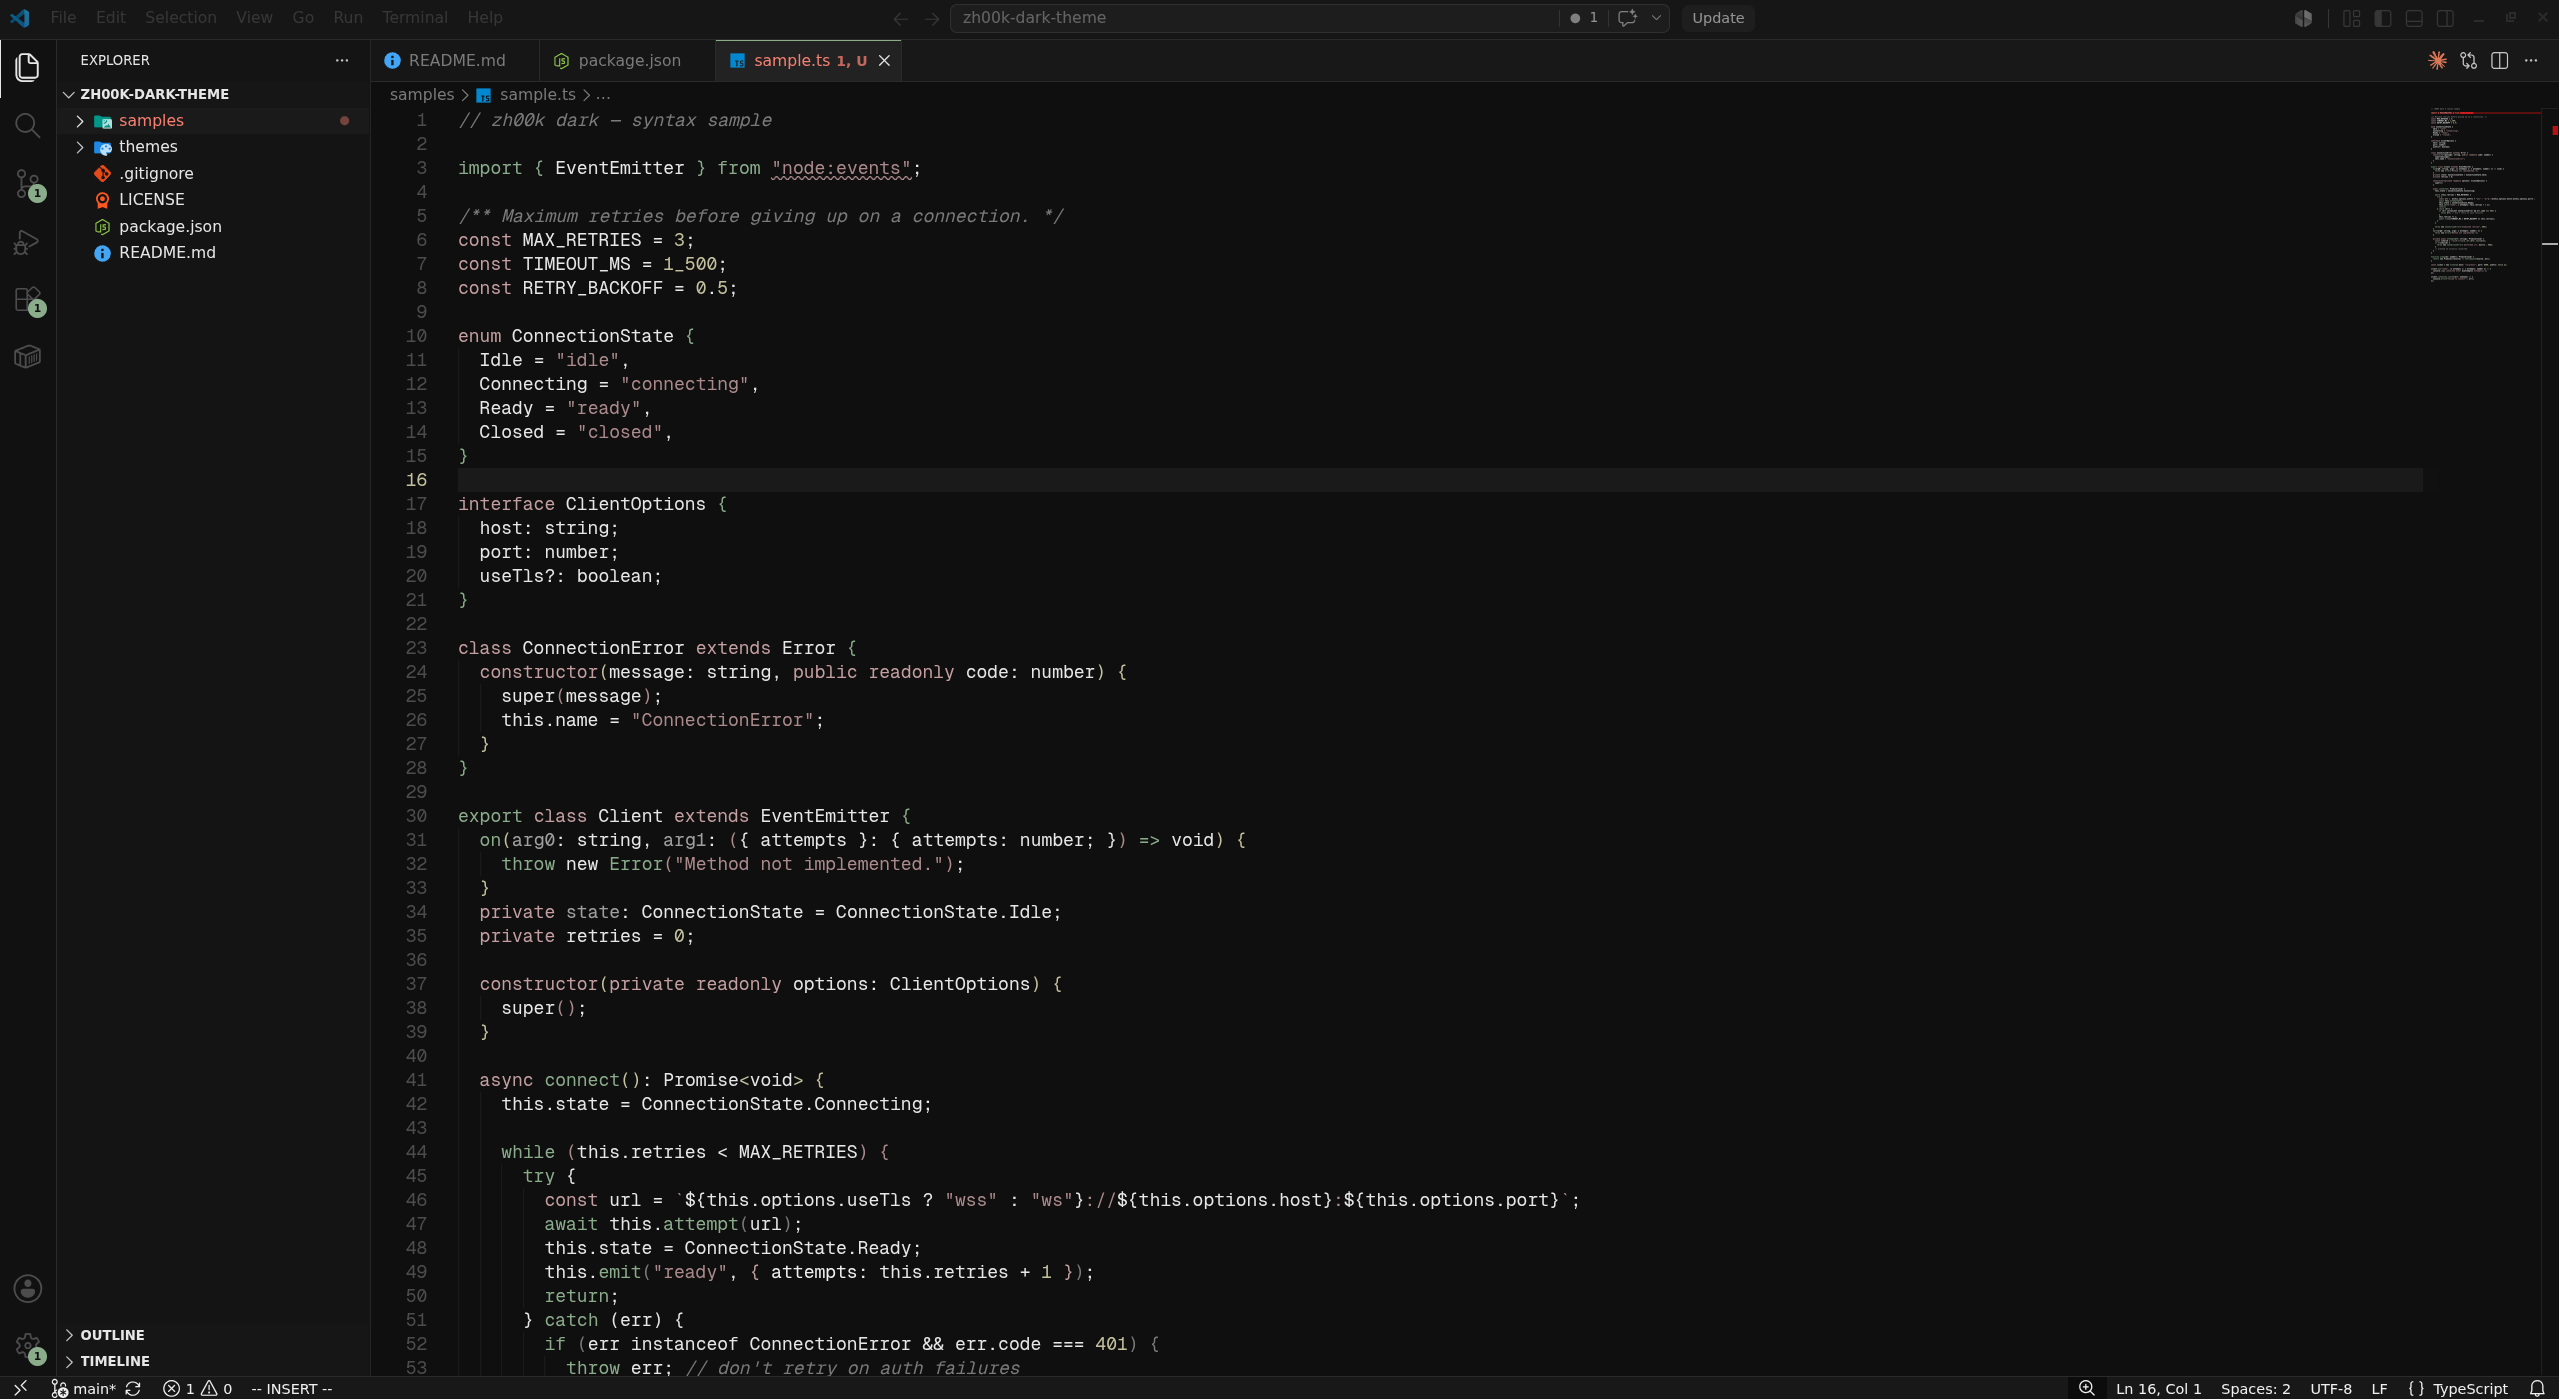
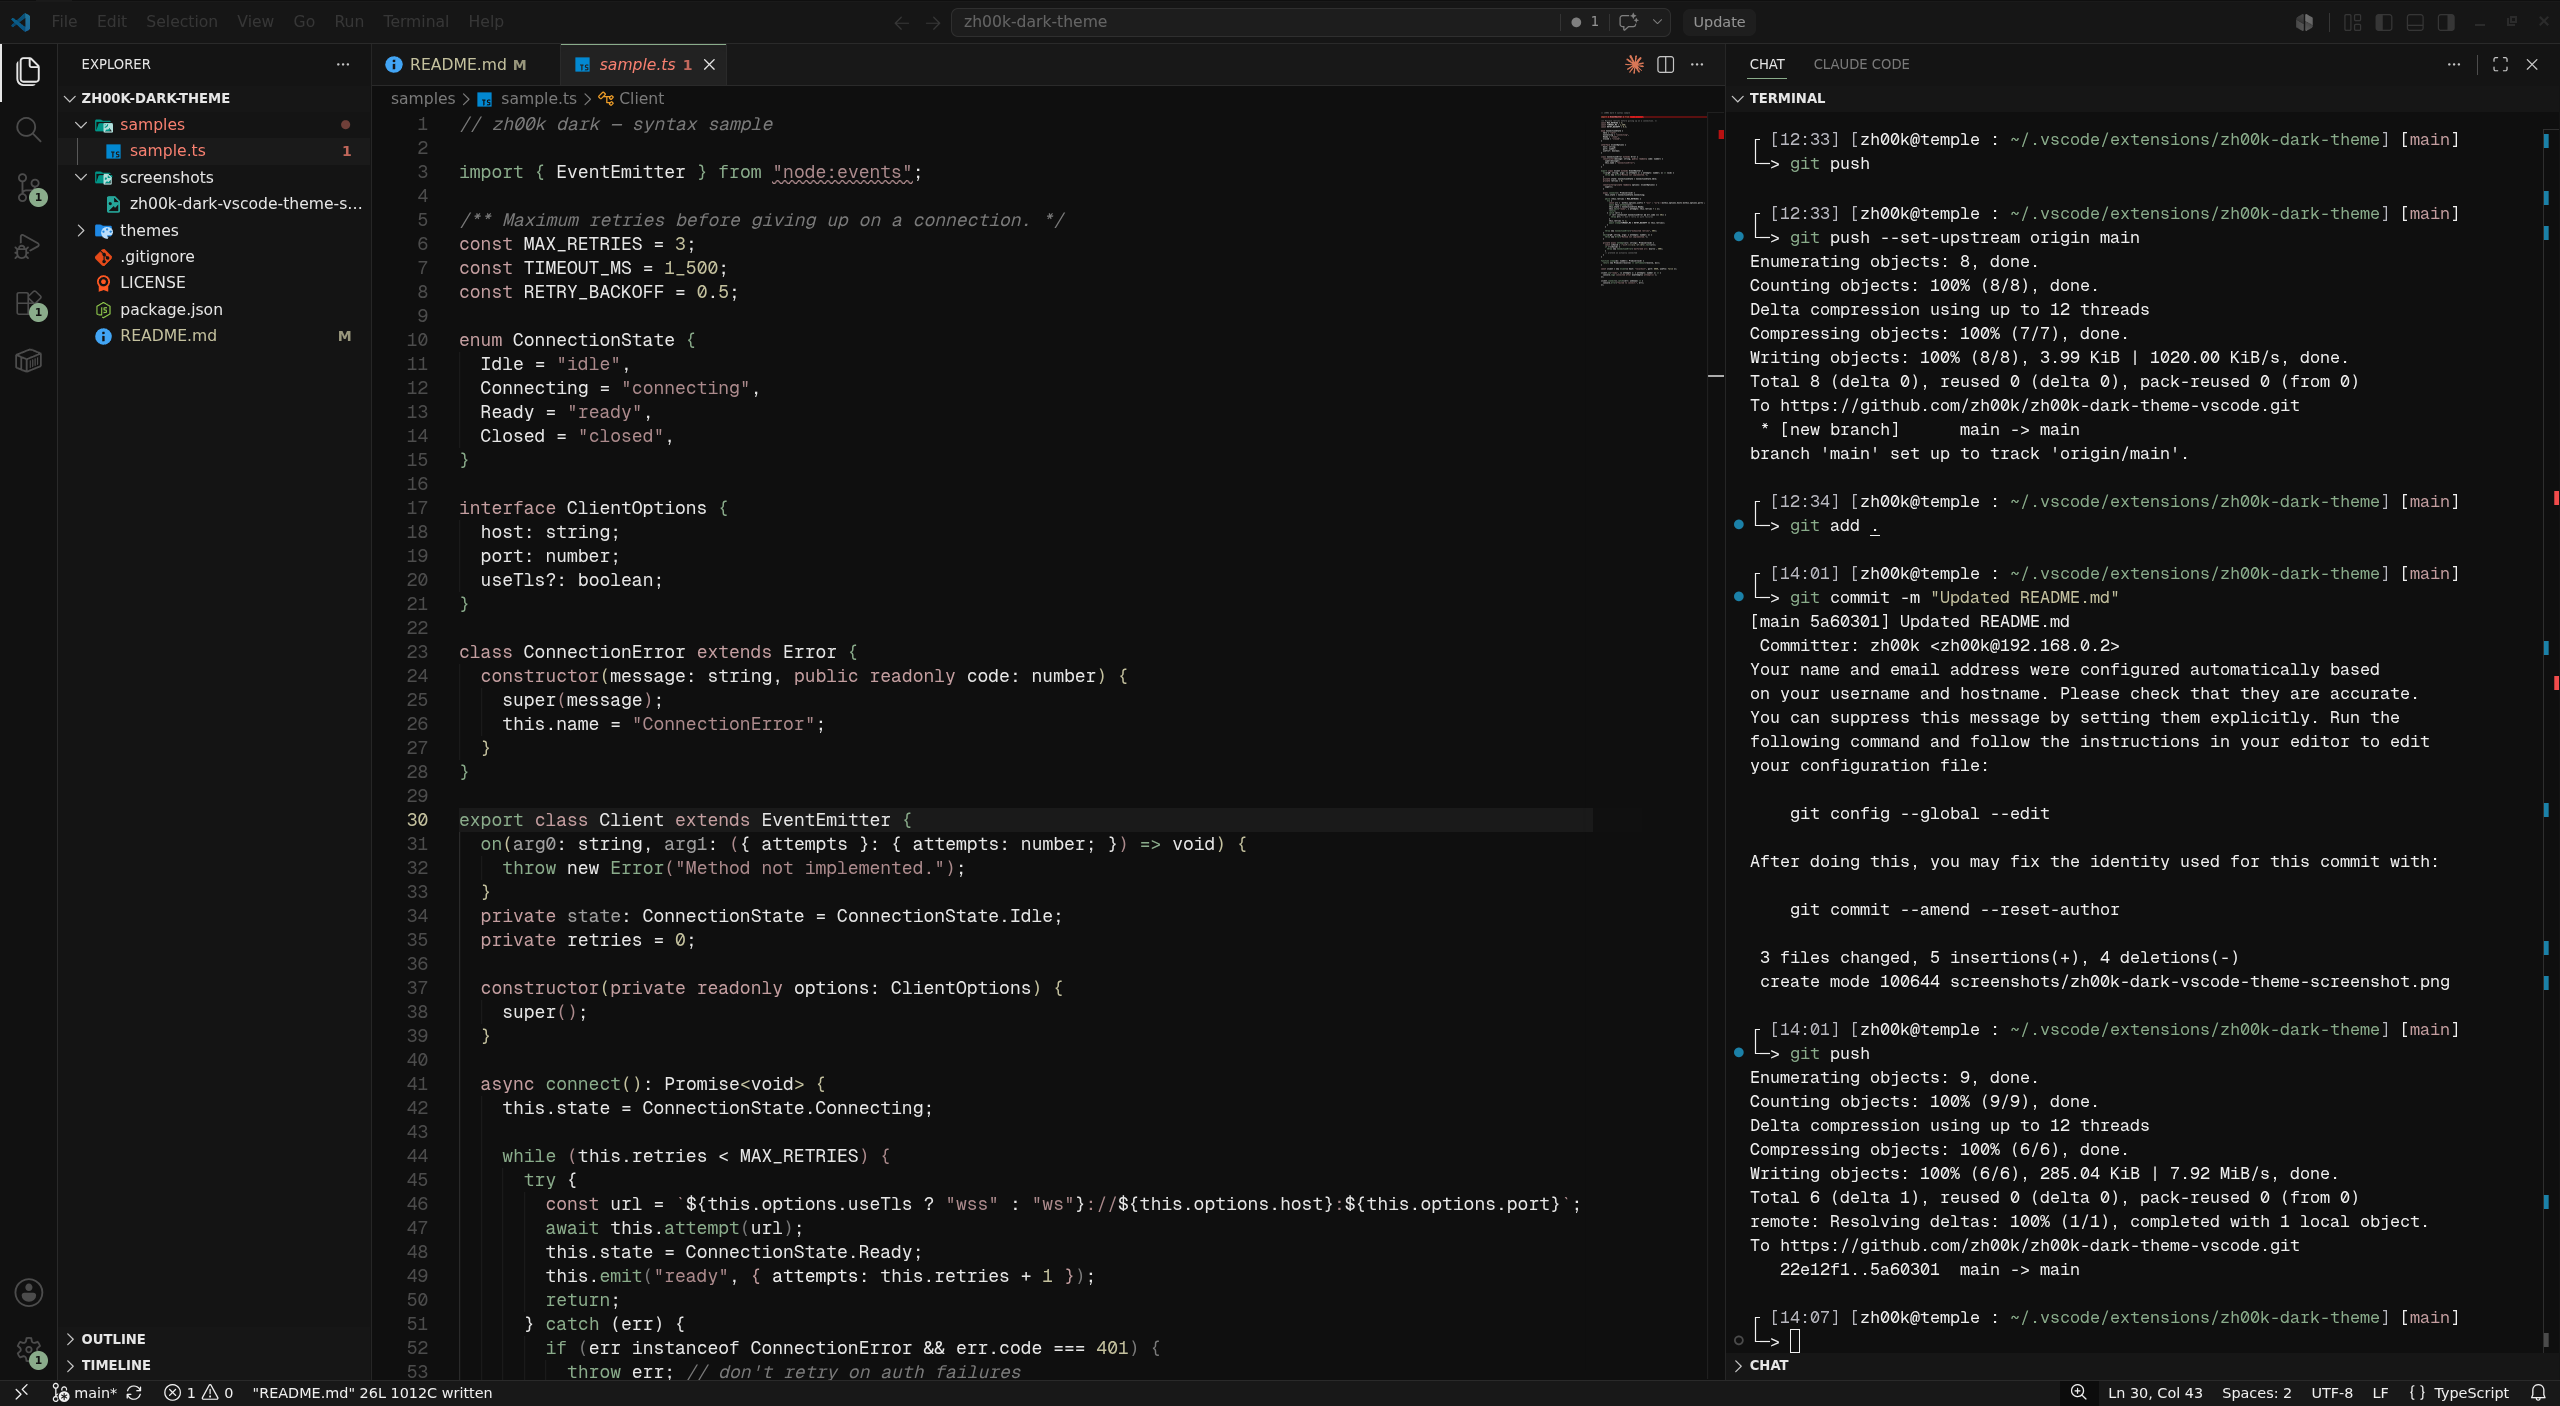
Updated README

diff --git a/README.md b/README.md
@@ -12,9 +12,9 @@ A minimal dark VS Code theme ported from zh00k's Linux rice:
 ### From the Marketplace
 
 1. Open the Extensions view (`Ctrl+Shift+X` / `Cmd+Shift+X`).
-2. Search for **zh00k Dark**.
+2. Search for **zh00k dark**.
 3. Click **Install**.
-4. Open the Command Palette → `Preferences: Color Theme` → select **zh00k Dark**.
+4. Open the Command Palette → `Preferences: Color Theme` → select **zh00k dark**.
 
 ### Manual installation
 
@@ -23,12 +23,3 @@ A minimal dark VS Code theme ported from zh00k's Linux rice:
    - Windows: `%USERPROFILE%\.vscode\extensions\zh00k-dark-theme`
 2. Restart VS Code.
 3. Open the Command Palette → `Preferences: Color Theme` → select **zh00k dark**.
-
-## Building from source
-
-```bash
-npm install -g @vscode/vsce
-vsce package
-```
-
-This produces a `.vsix` file you can install via `Extensions: Install from VSIX...` in the Command Palette.